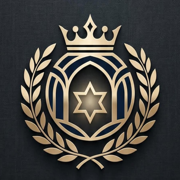
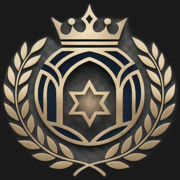
Add files via upload

diff --git a/lib/rooms-data.ts b/lib/rooms-data.ts
@@ -4,9 +4,10 @@ export const HOTEL = {
   name: "Nobel Regency Hotel",
   location: "Bibile, Sri Lanka",
   shortAddress: "11 Mahiyangana Road, Bibile 90015, Sri Lanka",
-  whatsappNumber: "94770000000", // TODO: replace with real hotel WhatsApp number
+  whatsappNumber: "94723600056",
   facebookUrl: "https://web.facebook.com/nobelregency",
   bookingComUrl: "https://www.booking.com/hotel/lk/nobel-regency.en-gb.html",
+  googleMapsUrl: "https://share.google/dnRpSg6brjznTCE6k",
   // Approximate town-centre coordinates for Bibile, Monaragala District, Uva Province.
   // Swap for the exact property pin once you share it.
   coordinates: { lat: 7.1601, lng: 81.2254 },
@@ -44,9 +45,9 @@ export const ROOMS: Room[] = [
     bedType: "Double",
     totalUnits: 4,
     images: [
-      "https://images.unsplash.com/photo-1590490360182-c33d57733427?q=80&w=1600",
-      "https://images.unsplash.com/photo-1522708323590-d24dbb6b0267?q=80&w=1600",
-      "https://images.unsplash.com/photo-1560185127-6ed189bf02f4?q=80&w=1600",
+      "/photos/bungalow-veranda-antiques-gym.jpg",
+      "/photos/garden-path-flowers.jpg",
+      "/photos/rustic-garden-seating.jpg",
     ],
     amenities: ["Garden view", "Antique furnishings", "Attached bathroom", "Free WiFi", "Shared sitting area"],
     featured: true,
@@ -66,9 +67,9 @@ export const ROOMS: Room[] = [
     bedType: "Double + Extra beds",
     totalUnits: 1,
     images: [
-      "https://images.unsplash.com/photo-1522771739844-6a9f6d5f14af?q=80&w=1600",
-      "https://images.unsplash.com/photo-1560448204-e02f11c3d0e2?q=80&w=1600",
-      "https://images.unsplash.com/photo-1595576508898-0ad5c879a061?q=80&w=1600",
+      "/photos/bungalow-veranda-antiques-gym.jpg",
+      "/photos/breakfast-spread-overhead.jpg",
+      "/photos/garden-path-flowers.jpg",
     ],
     amenities: ["Garden view", "Extra bedding", "Attached bathroom", "Free WiFi", "Near dining area"],
   },
@@ -87,9 +88,9 @@ export const ROOMS: Room[] = [
     bedType: "Double",
     totalUnits: 2,
     images: [
-      "https://images.unsplash.com/photo-1595576508898-0ad5c879a061?q=80&w=1600",
-      "https://images.unsplash.com/photo-1600585154340-be6161a56a0c?q=80&w=1600",
-      "https://images.unsplash.com/photo-1522708323590-d24dbb6b0267?q=80&w=1600",
+      "/photos/cottage-veranda-couple.jpg",
+      "/photos/banana-leaf-couple.jpg",
+      "/photos/garden-sunflare.jpg",
     ],
     amenities: ["Shared living area", "Shared kitchen access", "Garden view", "Free WiFi"],
   },
@@ -107,9 +108,9 @@ export const ROOMS: Room[] = [
     bedType: "Double",
     totalUnits: 1,
     images: [
-      "https://images.unsplash.com/photo-1518495973542-4542c06a5843?q=80&w=1600",
-      "https://images.unsplash.com/photo-1571003123894-1f0594d2b5d9?q=80&w=1600",
-      "https://images.unsplash.com/photo-1476231682828-37e571bc172f?q=80&w=1600",
+      "/photos/rustic-garden-seating.jpg",
+      "/photos/banana-leaf-couple.jpg",
+      "/photos/garden-path-flowers.jpg",
     ],
     amenities: ["15-acre private grounds", "Meditation space", "Nature views", "Peaceful, no road noise"],
     featured: true,

diff --git a/components/ui/LifeGallery.tsx b/components/ui/LifeGallery.tsx
@@ -1,0 +1,63 @@
+"use client";
+
+import Image from "next/image";
+import { motion } from "framer-motion";
+
+const GALLERY = [
+  {
+    src: "/photos/organic-citrus-tree.jpg",
+    alt: "Citrus growing in the organic garden at Nobel Regency",
+    caption: "From the organic garden",
+  },
+  {
+    src: "/photos/king-coconut-drink.jpg",
+    alt: "Fresh king coconut served in a clay cup overlooking the garden",
+    caption: "Fresh king coconut, garden-side",
+  },
+  {
+    src: "/photos/breakfast-couple-garden.jpg",
+    alt: "Guests enjoying a home-cooked breakfast in the garden",
+    caption: "Home-cooked, organic breakfasts",
+  },
+  {
+    src: "/photos/office-reception-sign.jpg",
+    alt: "Hand-painted reception sign along the garden path",
+    caption: "Find your way in",
+  },
+];
+
+export default function LifeGallery() {
+  return (
+    <section className="mx-auto max-w-7xl px-5 py-24 md:px-10">
+      <div className="mb-12 text-center">
+        <p className="text-xs uppercase tracking-[0.3em] text-gold">Life at Nobel Regency</p>
+        <h2 className="mt-3 font-serif text-3xl text-white md:text-4xl">
+          Straight From the Garden
+        </h2>
+      </div>
+
+      <div className="grid grid-cols-2 gap-4 md:grid-cols-4">
+        {GALLERY.map((item, i) => (
+          <motion.div
+            key={item.src}
+            initial={{ opacity: 0, y: 20 }}
+            whileInView={{ opacity: 1, y: 0 }}
+            viewport={{ once: true }}
+            transition={{ delay: i * 0.1, duration: 0.6 }}
+            className="group gold-border relative aspect-[3/4] overflow-hidden rounded-2xl"
+          >
+            <Image
+              src={item.src}
+              alt={item.alt}
+              fill
+              sizes="(max-width: 768px) 50vw, 25vw"
+              className="object-cover transition-transform duration-700 group-hover:scale-105"
+            />
+            <div className="absolute inset-0 bg-gradient-to-t from-charcoal-deep/80 via-transparent to-transparent" />
+            <p className="absolute bottom-3 left-3 right-3 text-xs text-white/85">{item.caption}</p>
+          </motion.div>
+        ))}
+      </div>
+    </section>
+  );
+}

diff --git a/components/ui/WhatsAppButton.tsx b/components/ui/WhatsAppButton.tsx
@@ -5,7 +5,7 @@ import { HOTEL } from "@/lib/rooms-data";
 
 export default function WhatsAppButton() {
   const message = encodeURIComponent(
-    "Hi Nobel Regency, I'd like to enquire about a stay."
+    "Hi Nobel Regency Hotel, I'd like to enquire about a stay."
   );
   const href = `https://wa.me/${HOTEL.whatsappNumber}?text=${message}`;
 
@@ -19,7 +19,7 @@ export default function WhatsAppButton() {
       transition={{ delay: 1, type: "spring", stiffness: 200 }}
       whileHover={{ scale: 1.08 }}
       className="fixed bottom-6 right-5 z-50 flex items-center gap-2 rounded-full bg-[#25D366] px-4 py-3 text-sm font-medium text-charcoal-deep shadow-lg shadow-black/30 md:bottom-8 md:right-8"
-      aria-label="Direct inquiry on WhatsApp"
+      aria-label="Message Nobel Regency Hotel Bibile on WhatsApp"
     >
       <svg viewBox="0 0 24 24" width="20" height="20" fill="currentColor">
         <path d="M12.04 2C6.58 2 2.13 6.45 2.13 11.91c0 1.75.46 3.45 1.32 4.95L2 22l5.28-1.39a9.9 9.9 0 0 0 4.76 1.21h.01c5.46 0 9.9-4.45 9.9-9.91C21.95 6.45 17.5 2 12.04 2zm5.8 14.15c-.24.68-1.4 1.32-1.93 1.4-.5.08-1.12.11-1.8-.11-.42-.13-.96-.31-1.65-.6-2.9-1.25-4.8-4.16-4.94-4.35-.14-.19-1.18-1.57-1.18-2.99 0-1.42.75-2.12 1.02-2.41.27-.29.58-.36.78-.36.19 0 .39 0 .56.01.18.01.42-.07.66.5.24.58.82 2 .89 2.14.07.15.12.32.02.51-.1.19-.15.31-.29.48-.15.17-.31.38-.44.5-.15.15-.3.31-.13.6.17.29.75 1.24 1.62 2.01 1.11.99 2.05 1.3 2.34 1.44.29.15.46.13.64-.08.19-.2.79-.92 1-1.23.2-.31.41-.26.68-.16.28.1 1.76.83 2.06.98.29.15.49.23.56.36.07.13.07.75-.17 1.43z" />

diff --git a/components/ui/LocalMap.tsx b/components/ui/LocalMap.tsx
@@ -23,7 +23,7 @@ export default function LocalMap() {
           whileInView={{ opacity: 1 }}
           viewport={{ once: true }}
           transition={{ duration: 0.7 }}
-          className="gold-border h-80 overflow-hidden rounded-2xl md:h-full"
+          className="gold-border h-80 overflow-hidden rounded-2xl md:h-[26rem]"
         >
           <iframe
             src={mapSrc}
@@ -34,6 +34,17 @@ export default function LocalMap() {
         </motion.div>
 
         <div className="flex flex-col justify-center gap-4">
+          <p className="text-xs text-white/30">
+            Map pin is approximate — use &ldquo;View on Google Maps&rdquo; below for the exact location.
+          </p>
+          <a
+            href={HOTEL.googleMapsUrl}
+            target="_blank"
+            rel="noopener noreferrer"
+            className="gold-shimmer-btn mb-1 inline-block w-fit rounded-full px-6 py-2.5 text-xs font-semibold uppercase tracking-wider text-charcoal-deep"
+          >
+            View on Google Maps
+          </a>
           {HOTEL.nearbyAttractions.map((place, i) => (
             <motion.div
               key={place.name}

diff --git a/components/ui/HeroSlider.tsx b/components/ui/HeroSlider.tsx
@@ -7,16 +7,16 @@ import Link from "next/link";
 
 const SLIDES = [
   {
-    src: "https://images.unsplash.com/photo-1590490360182-c33d57733427?q=80&w=2000",
-    alt: "Garden bungalow veranda at golden hour",
+    src: "/photos/garden-path-flowers.jpg",
+    alt: "Garden path through bougainvillea and palms at Nobel Regency",
   },
   {
-    src: "https://images.unsplash.com/photo-1518495973542-4542c06a5843?q=80&w=2000",
-    alt: "Quiet green grounds at the retreat cottage",
+    src: "/photos/bungalow-veranda-antiques-gym.jpg",
+    alt: "The main bungalow's antique-filled veranda",
   },
   {
-    src: "https://images.unsplash.com/photo-1560185127-6ed189bf02f4?q=80&w=2000",
-    alt: "Antique-furnished interior at Nobel Regency",
+    src: "/photos/garden-sunflare.jpg",
+    alt: "Morning light across the garden grounds",
   },
 ];
 

diff --git a/app/(main)/page.tsx b/app/(main)/page.tsx
@@ -9,6 +9,9 @@ import { Leaf, Dumbbell, Sparkles, Camera, HeartHandshake, Gem } from "lucide-re
 const LocalMap = dynamic(() => import("@/components/ui/LocalMap"), {
   loading: () => <div className="h-96 animate-pulse bg-charcoal-soft" />,
 });
+const LifeGallery = dynamic(() => import("@/components/ui/LifeGallery"), {
+  loading: () => <div className="h-64 animate-pulse bg-charcoal-soft" />,
+});
 const Testimonials = dynamic(() => import("@/components/ui/Testimonials"), {
   loading: () => <div className="h-64 animate-pulse bg-charcoal-soft" />,
 });
@@ -67,6 +70,7 @@ export default function HomePage() {
         </div>
       </section>
 
+      <LifeGallery />
       <LocalMap />
       <Testimonials />
     </main>

diff --git a/README.md b/README.md
@@ -44,16 +44,30 @@ Open http://localhost:3000
    (`prevent_overbooking`) that checks confirmed bookings against each room
    type's `total_units` — correctly handles the 4 Garden Double Rooms as one
    pool of 4, not 4 separate exclusive slots.
-2. **Real photos**: every image right now is a placeholder (stock photos —
-   garden/bungalow/antique themed, not the actual property). Swap in real
-   photos of the rooms, garden, antiques, and cottages in
-   `lib/rooms-data.ts` as soon as you have them.
+2. **Real photos**: swapped in — `public/photos/` now has 12 real property
+   photos (garden, bungalow veranda with the antiques/gym, the A-frame family
+   cottage, organic citrus, king coconut, breakfast spreads) used across the
+   hero, all 4 room galleries, and a new "Life at Nobel Regency" section on
+   the homepage. Two uploads weren't used: a casual selfie (not really
+   marketing material) and one that duplicated another close-up. Add more as
+   you get them — every room only has 1-2 real photos each right now, mixed
+   with photos of the garden generally rather than that specific room.
 3. **Prices**: `lib/rooms-data.ts` has placeholder LKR prices for each room
    and AC surcharge — replace with your actual rates.
-4. **WhatsApp number**: `HOTEL.whatsappNumber` in `lib/rooms-data.ts`.
-5. **Google Maps**: `LocalMap.tsx` uses a keyless embed URL centred on
-   approximate Bibile town coordinates — swap in the exact property pin.
-6. **Domain/SEO**: update `metadata` in `app/layout.tsx` and add a real
+4. **Logo**: `public/brand/logo-transparent.png` is the background-removed
+   full lockup (crest + wordmark); `crest-mark.png` is cropped to just the
+   emblem for the navbar/footer/favicon. Background removal was done with a
+   combination of AI segmentation + a manual alpha mask for the gold text
+   (the automatic tool dropped the text on its own) — worth a quick look at
+   full size before printing it anywhere, since blended/soft edges can show
+   up more at large sizes than on screen.
+5. **WhatsApp**: wired to the real number (+94 72 360 0056).
+6. **Google Maps**: the location section links straight to your real
+   Google Maps share link now. The embedded map itself still uses
+   approximate Bibile town-centre coordinates (share links can't be
+   reverse-geocoded automatically) — send over the plain latitude/longitude
+   if you'd like the embed centred exactly on the property.
+7. **Domain/SEO**: update `metadata` in `app/layout.tsx` and add a real
    `app/sitemap.ts` + `app/robots.ts` once the domain is live.
 
 ## Folder structure
